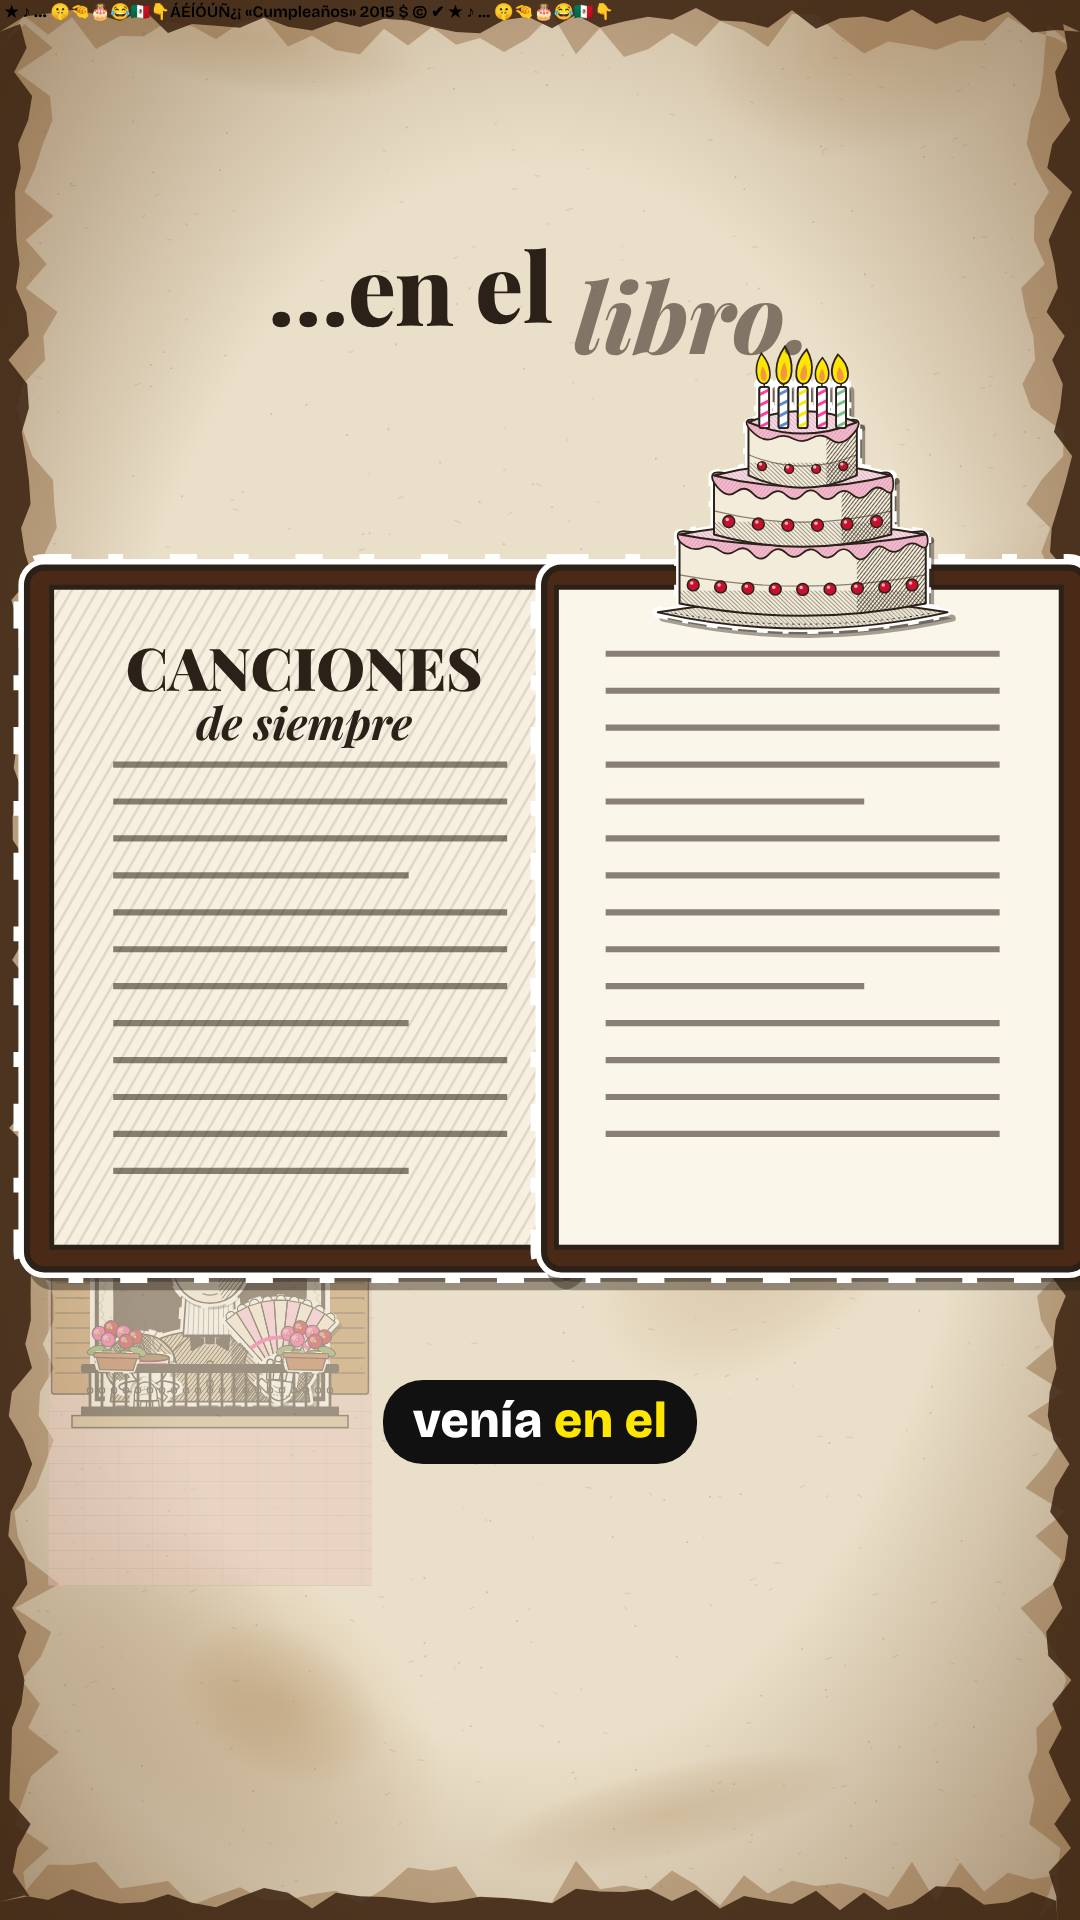
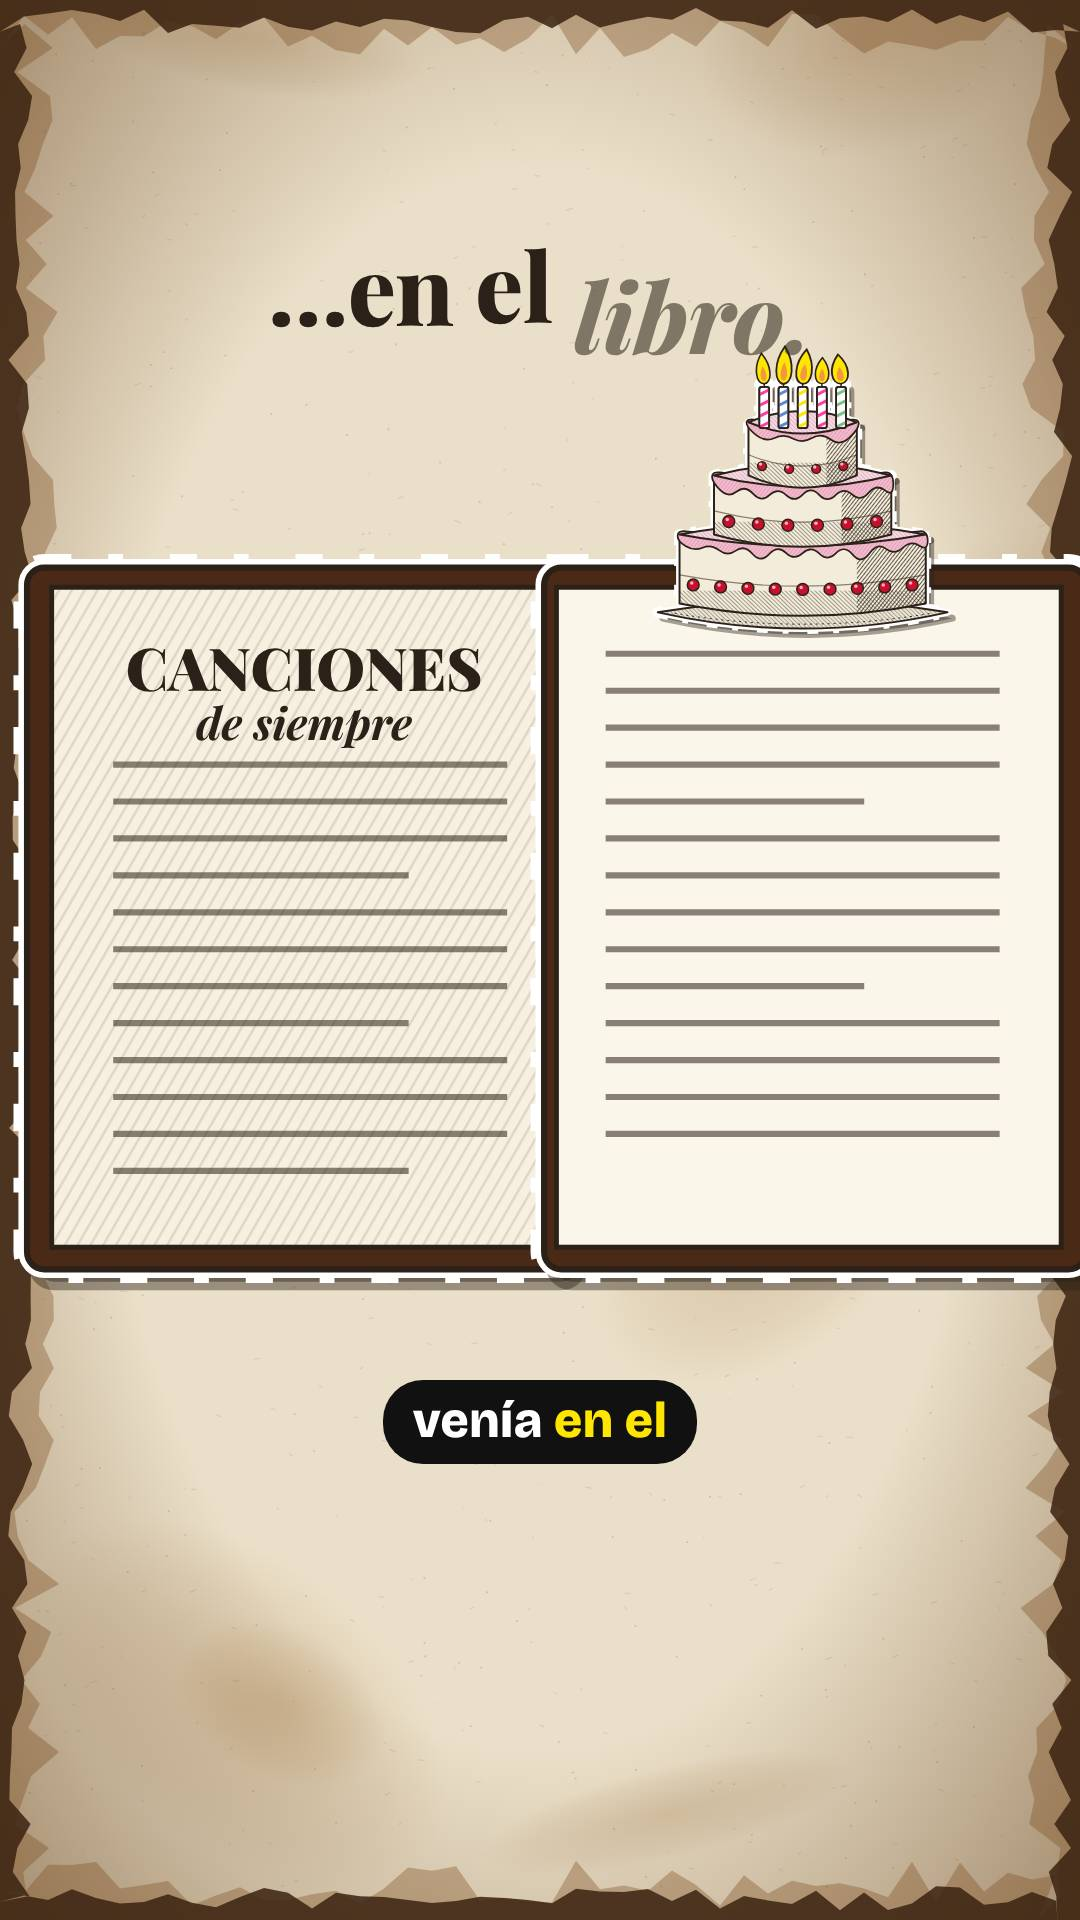
Historia: avance de producción
Claude-Session: https://claude.ai/code/session_011ugmWaVamVDG6YmEcTiSNf

Changed region(s): [[0.0306, 0.6562, 0.3667, 0.75], [0.0306, 0.0, 0.1528, 0.0312], [0.4583, 0.0, 0.55, 0.0312]]

diff --git a/tiktok/historia/ep21_cumple2/cu2_scenes_b.js b/tiktok/historia/ep21_cumple2/cu2_scenes_b.js
@@ -268,6 +268,9 @@ headline(K.os - 0.06, S.Q[1], '*Os leo* 👇', { size: 130, hlT: K.os });
     el('div', e, { left: '130px', top: '50px', fontFamily: 'Bricolage', fontWeight: 800, fontSize: '44px', color: INK, whiteSpace: 'nowrap' }, m[2]);
     CM.push({ e, t: m[3] });
   });
+  // rótulo: son ejemplos, no comentarios reales
+  const imag = el('div', c, { left: '40px', top: '1016px', width: '560px', textAlign: 'center', fontFamily: 'Bricolage', fontWeight: 600, fontStyle: 'italic', fontSize: '32px', color: '#7a6a58', whiteSpace: 'nowrap', zIndex: 40 }, '(comentarios imaginarios)');
+  CM.push({ e: imag, t: cms[0][3] });
 }
 
 /* ======================================================================
